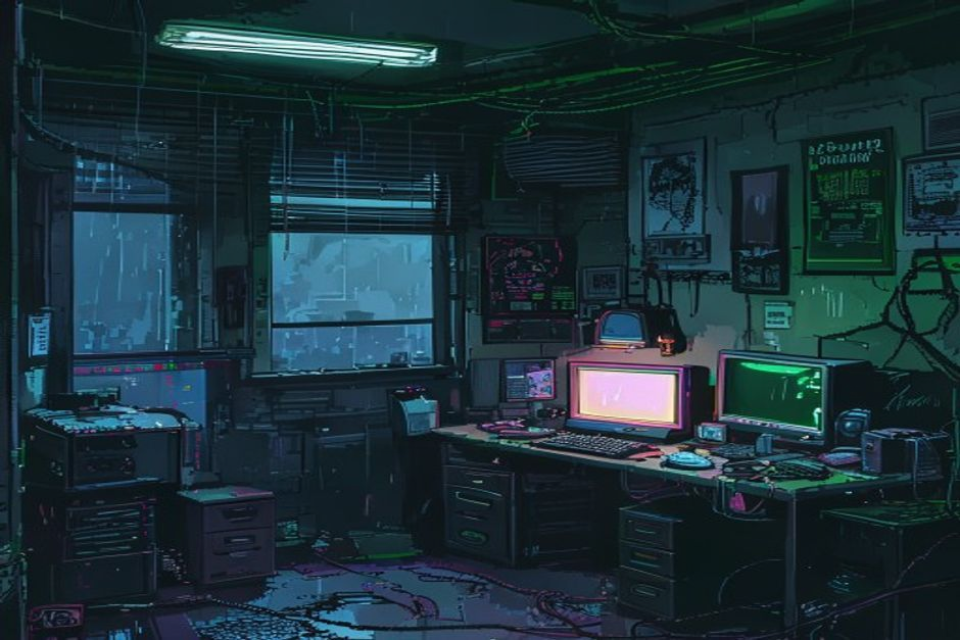
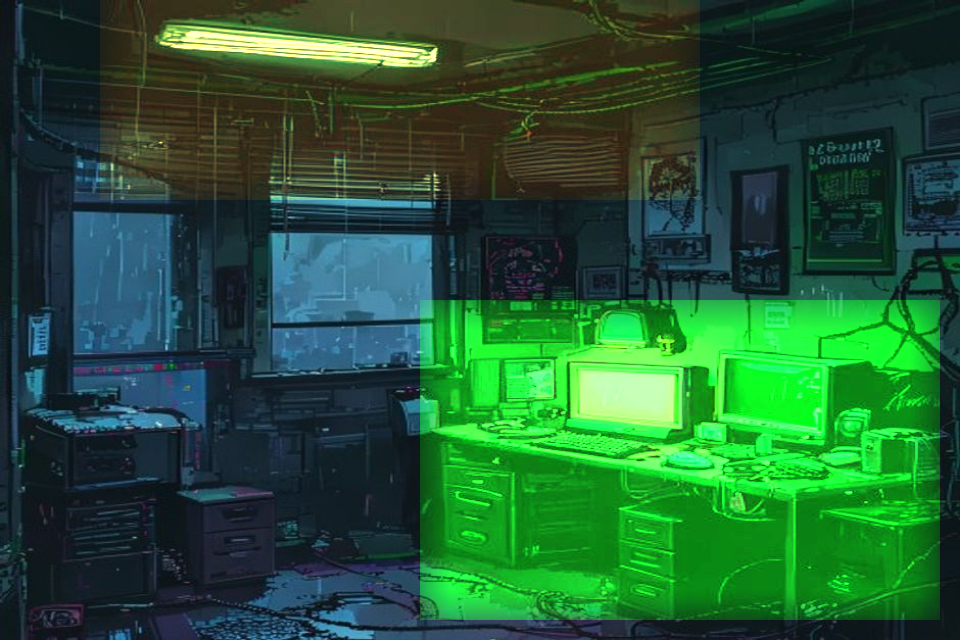
feat: directional env animation v3 for apartment
Localized effects with visible intensity:
- Terminal screen: green CRT flash, dark-off, flicker
- Ceiling light: warm glow, on/off
- Window: rain streaks density variation
- Frame diff 10-18 (visible to obvious)

diff --git a/gen_env_anim.py b/gen_env_anim.py
@@ -1,0 +1,231 @@
+#!/usr/bin/env python3
+"""
+LAST SIGNAL - 定向环境动画 v3 (apartment)
+
+核心思路：效果要极端、局部要大、变化要快。
+- 终端屏幕：像真的 CRT 在闪烁，亮度变化 > 100%
+- 天花板灯：真的灭/亮，不是微调
+- 窗户雨：肉眼可见的雨丝变化
+- 每帧都有至少一个显著变化点
+"""
+
+import cv2
+import numpy as np
+import os
+
+ASSETS_DIR = "/root/.openclaw/workspace/last-signal/assets"
+SCENE = "bg_apartment"
+
+# 区域 (扩大范围以覆盖更多像素)
+TERMINAL = (420, 300, 940, 620)   # 终端+桌面
+CEILING  = (100, 0, 700, 200)     # 天花板灯区域
+WINDOW   = (0, 60, 470, 580)      # 窗户区域
+
+
+def load_base():
+    path = os.path.join(ASSETS_DIR, f"{SCENE}_f0.png")
+    return cv2.imread(path)
+
+
+def mask_blend(base, transformed, region, feather=30):
+    """用羽化 mask 混合区域效果"""
+    h, w = base.shape[:2]
+    x1, y1, x2, y2 = [max(0, region[0]), max(0, region[1]),
+                        min(w, region[2]), min(h, region[3])]
+
+    mask = np.zeros((h, w), np.float32)
+    mask[y1:y2, x1:x2] = 1.0
+    ks = feather * 2 + 1
+    mask = cv2.GaussianBlur(mask, (ks, ks), feather)
+    if mask.max() > 0:
+        mask /= mask.max()
+    m3 = np.stack([mask]*3, axis=-1)
+
+    bf = base.astype(np.float32)
+    tf = transformed.astype(np.float32)
+    return np.clip(bf * (1 - m3) + tf * m3, 0, 255).astype(np.uint8)
+
+
+# ========== 效果 ==========
+
+def fx_terminal_green_flash(img):
+    """终端区域强绿色脉冲 — 像 CRT 闪亮"""
+    out = img.copy().astype(np.float32)
+    x1, y1, x2, y2 = TERMINAL
+    r = out[y1:y2, x1:x2]
+    # 绿色通道大幅提亮
+    r[:, :, 1] = np.clip(r[:, :, 1] * 2.2 + 40, 0, 255)
+    # 红蓝压制
+    r[:, :, 0] = np.clip(r[:, :, 0] * 0.5, 0, 255)
+    r[:, :, 2] = np.clip(r[:, :, 2] * 0.55, 0, 255)
+    # 整体提亮
+    r[:] = np.clip(r * 1.5, 0, 255)
+    return out.astype(np.uint8)
+
+
+def fx_terminal_off(img):
+    """终端区域暗灭 — 几乎全黑"""
+    out = img.copy().astype(np.float32)
+    x1, y1, x2, y2 = TERMINAL
+    out[y1:y2, x1:x2] *= 0.25
+    return np.clip(out, 0, 255).astype(np.uint8)
+
+
+def fx_terminal_flicker(img):
+    """终端闪烁 — 亮度波动 + 色温偏移"""
+    out = img.copy().astype(np.float32)
+    x1, y1, x2, y2 = TERMINAL
+    r = out[y1:y2, x1:x2]
+    r[:, :, 1] = np.clip(r[:, :, 1] * 1.6 + 25, 0, 255)
+    r[:, :, 0] = np.clip(r[:, :, 0] * 0.7, 0, 255)
+    r[:, :, 2] = np.clip(r[:, :, 2] * 0.75, 0, 255)
+    r[:] = np.clip(r * 1.35, 0, 255)
+    return out.astype(np.uint8)
+
+
+def fx_ceiling_warm(img):
+    """天花板灯偏暖亮"""
+    out = img.copy().astype(np.float32)
+    x1, y1, x2, y2 = CEILING
+    r = out[y1:y2, x1:x2]
+    r[:, :, 2] = np.clip(r[:, :, 2] * 1.4 + 20, 0, 255)
+    r[:, :, 1] = np.clip(r[:, :, 1] * 1.2, 0, 255)
+    r[:, :, 0] = np.clip(r[:, :, 0] * 0.6, 0, 255)
+    r[:] = np.clip(r * 1.4, 0, 255)
+    return out.astype(np.uint8)
+
+
+def fx_ceiling_dark(img):
+    """天花板灯灭 — 大幅压暗"""
+    out = img.copy().astype(np.float32)
+    x1, y1, x2, y2 = CEILING
+    out[y1:y2, x1:x2] *= 0.2
+    return np.clip(out, 0, 255).astype(np.uint8)
+
+
+def fx_window_rain(img):
+    """窗户区域密集雨丝"""
+    out = img.copy().astype(np.float32)
+    h, w = out.shape[:2]
+    x1, y1, x2, y2 = WINDOW
+    rain = np.zeros((h, w), np.float32)
+    n = 300
+    xs = np.random.randint(x1, x2, n)
+    ys = np.random.randint(y1, y2, n)
+    ls = np.random.randint(10, 35, n)
+    for x, y, l in zip(xs, ys, ls):
+        x2r = x + np.random.randint(-2, 3)
+        y2r = min(y + l, y2)
+        cv2.line(rain, (x, y), (x2r, y2r), 1.0, 1)
+    out[:, :, 0] = np.clip(out[:, :, 0] + rain * 80, 0, 255)
+    out[:, :, 1] = np.clip(out[:, :, 1] + rain * 65, 0, 255)
+    out[:, :, 2] = np.clip(out[:, :, 2] + rain * 50, 0, 255)
+    # 窗户微亮
+    out[y1:y2, x1:x2] = np.clip(out[y1:y2, x1:x2] * 1.15, 0, 255)
+    return out.astype(np.uint8)
+
+
+def fx_window_light_rain(img):
+    """窗户区域轻雨"""
+    out = img.copy().astype(np.float32)
+    h, w = out.shape[:2]
+    x1, y1, x2, y2 = WINDOW
+    rain = np.zeros((h, w), np.float32)
+    n = 100
+    xs = np.random.randint(x1, x2, n)
+    ys = np.random.randint(y1, y2, n)
+    ls = np.random.randint(5, 18, n)
+    for x, y, l in zip(xs, ys, ls):
+        x2r = x + np.random.randint(-1, 2)
+        y2r = min(y + l, y2)
+        cv2.line(rain, (x, y), (x2r, y2r), 0.7, 1)
+    out[:, :, 0] = np.clip(out[:, :, 0] + rain * 50, 0, 255)
+    out[:, :, 1] = np.clip(out[:, :, 1] + rain * 40, 0, 255)
+    out[:, :, 2] = np.clip(out[:, :, 2] + rain * 30, 0, 255)
+    return out.astype(np.uint8)
+
+
+def fx_global_cold(img):
+    """全局偏冷"""
+    out = img.copy().astype(np.float32)
+    out[:, :, 0] = np.clip(out[:, :, 0] * 1.1 + 5, 0, 255)
+    out[:, :, 2] = np.clip(out[:, :, 2] * 0.9, 0, 255)
+    return out.astype(np.uint8)
+
+
+# ============================================================
+# 帧定义：每帧组合多个区域效果
+# ============================================================
+
+def gen():
+    base = load_base()
+    frames = []
+
+    # f0: 基准
+    frames.append(base.copy())
+
+    # f1: 终端绿闪 + 天花板暖亮
+    f1 = mask_blend(base, fx_terminal_green_flash(base), TERMINAL)
+    f1 = mask_blend(f1, fx_ceiling_warm(f1), CEILING)
+    frames.append(f1)
+
+    # f2: 终端灭 + 窗户雨
+    f2 = mask_blend(base, fx_terminal_off(base), TERMINAL)
+    f2 = fx_window_rain(f2)
+    frames.append(f2)
+
+    # f3: 终端闪 + 天花板暗
+    f3 = mask_blend(base, fx_terminal_flicker(base), TERMINAL)
+    f3 = mask_blend(f3, fx_ceiling_dark(f3), CEILING)
+    frames.append(f3)
+
+    # f4: 全局冷 + 终端绿闪（峰值帧）
+    f4 = fx_global_cold(base.copy())
+    f4 = mask_blend(f4, fx_terminal_green_flash(f4), TERMINAL)
+    frames.append(f4)
+
+    # f5: 终端灭 + 天花板暖 + 窗户轻雨
+    f5 = mask_blend(base, fx_terminal_off(base), TERMINAL)
+    f5 = mask_blend(f5, fx_ceiling_warm(f5), CEILING)
+    f5 = fx_window_light_rain(f5)
+    frames.append(f5)
+
+    # f6: 终端闪 + 窗户雨
+    f6 = mask_blend(base, fx_terminal_flicker(base), TERMINAL)
+    f6 = fx_window_rain(f6)
+    frames.append(f6)
+
+    # f7: 终端微闪（过渡回基准）
+    f7 = mask_blend(base, fx_terminal_flicker(base), TERMINAL)
+    frames.append(f7)
+
+    return frames
+
+
+def main():
+    print("=" * 50)
+    print("🎬 LAST SIGNAL - 定向环境动画 v3 (apartment)")
+    print("=" * 50)
+
+    np.random.seed(42)  # 固定雨丝位置便于对比
+    frames = gen()
+
+    for i, f in enumerate(frames):
+        out = os.path.join(ASSETS_DIR, f"{SCENE}_f{i}.png")
+        cv2.imwrite(out, f)
+        sz = os.path.getsize(out) // 1024
+        print(f"  ✅ f{i} ({sz}KB)")
+
+    print(f"\n📊 帧间差异:")
+    for i in range(1, len(frames)):
+        diff = np.mean(cv2.absdiff(frames[0], frames[i]))
+        bar = "█" * int(diff) + "░" * max(0, 30 - int(diff))
+        label = "太微" if diff < 3 else "微妙" if diff < 8 else "可见" if diff < 18 else "明显"
+        print(f"   f0↔f{i}: {diff:5.1f} {bar} [{label}]")
+
+    loop = np.mean(cv2.absdiff(frames[0], frames[-1]))
+    print(f"   循环: f0↔f{len(frames)-1}: {loop:.1f}")
+
+
+if __name__ == "__main__":
+    main()
